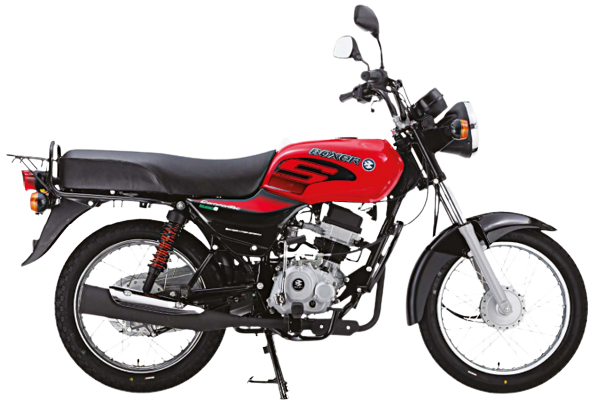
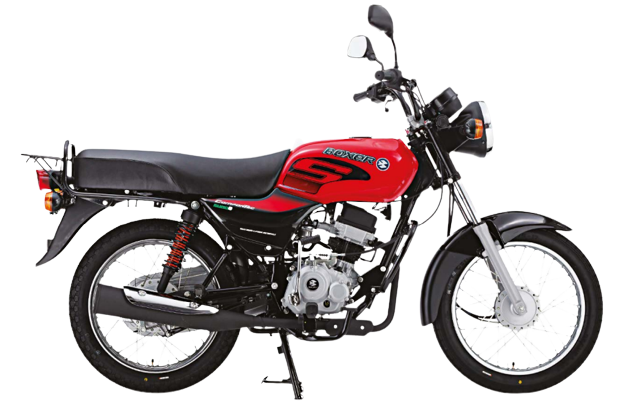
primer catálo de muestra listo

Changed region(s): [[0.0, 0.0, 0.9918, 1.0], [0.155, 0.9277, 0.186, 0.9576]]

diff --git a/Page/Referencias/BoxerS.html b/Page/Referencias/BoxerS.html
@@ -15,29 +15,44 @@
     <header>
         <ul>
             <nav>
-                <a href="index.html">INICIO</a>
+                <a href="../index.html">INICIO</a>
                 <li><a href="../Catalogo.html">CATÁLOGO</a>
                     <ul class="submenu">
-                        <a href="Automaticas.html">Scotter</a>
-                        <a href="Trabajo.html">De Trabajo</a>
-                        <a href="Deportivas.html">Deportivas</a>
+                        <a href="../Automaticas.html">Scotter</a>
+                        <a href="../Trabajo.html">De Trabajo</a>
+                        <a href="../Deportivas.html">Deportivas</a>
                     </ul>
                 </li>
-                <a href="Nosotros.html">NOSOTROS</a>
-                <a href="Contactanos.html">CONTÁCTANOS</a>
+                <a href="../Nosotros.html">NOSOTROS</a>
+                <a href="../Contactanos.html">CONTÁCTANOS</a>
                 <div id="indicator"></div>
             </nav>
         </ul>
     </header>
+    <section class="name">
+        <p>BOXER S</p>
+    </section>
     <section class="dividir">
         <div>
-            <img src="../../IMG/BOXER S.png" alt="" width="500px" height="400">
+            <img src="../../IMG/BOXER S.png" alt="" width="500px" height="380">
        </div>
 
-       <div>
-        <img src="" alt="">
+       <div class="tablaInfo">
+        <img src="../../IMG/info_boxer S.png" alt="tabla de informacion">
        </div>
 
+    </section>
+    <img src="../../IMG/colores Boxer S.png" alt="colores" width="1000px" style="padding-bottom: 60px;">
+    <h2>ESPECIFICACIONES TÉCNICAS</h2>
+    <section class="dividir">
+        <div class="especificaciones">
+            <img src="../../IMG/motor boxer S.png" alt="">
+            <img src="../../IMG/electrico boxer S.png" alt="">
+        </div>
+        <div class="especificaciones">
+            <img src="../../IMG/chasis boxer S.png" alt="" >
+            <img src="../../IMG/dimensiones boxer S.png" alt="" style="padding-top: 75px;">
+        </div>
     </section>
    <footer>
 

diff --git a/CSS/style.css b/CSS/style.css
@@ -13,6 +13,8 @@ body{
     color: #292929;
 }
 
+
+
 footer{
   position: static;
   bottom: 0;
@@ -46,7 +48,8 @@ header {
   display: table;
   z-index: 100;
   background-color: #292929;
-
+  left: 0;
+  right: 0;
 }
   
 ul,ol {
@@ -309,6 +312,24 @@ section span h2{
 .dividir{
     display: flex;
     justify-content: space-evenly;
+    padding-top: 10px;
+    padding-left: 50px;
+}
+
+.tablaInfo{
+    padding-top: 60px;
+}
+
+.name p{
+    font-size: 30px;
+    font-style: italic;
+    font-weight: 700;
+    text-decoration: underline red;
+    text-shadow: 2px 2px 5px grey;
+}
+
+section .especificaciones img{
+    padding-top: 20px;
 }
 /*Slider*/
 
